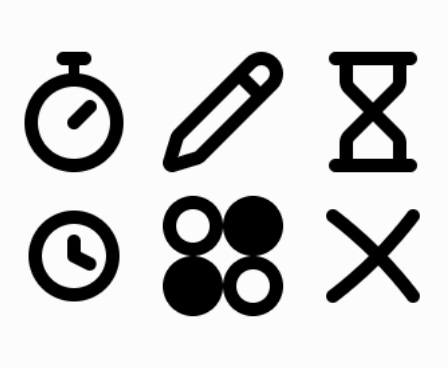
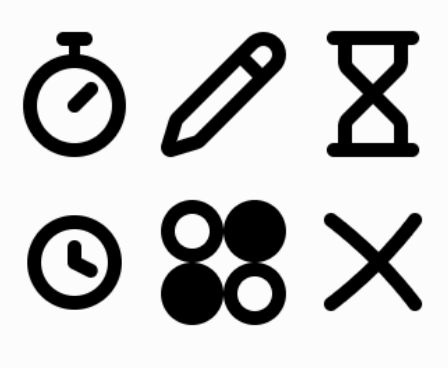
menu: a cell may be a fifth taller than it is wide, so six apps fill the panel
The owner on the six-app grid: "l'espacement doesn't feel too satisfactory".
Measured rather than guessed at: cells were 149 wide by 144 tall with 128px
icons, which put 10px of paper between an icon and the side bezel and 40px
between the grid and the top and bottom. The icons were grazing the sides
while floating in the middle, and that 10-against-40 is what the eye reads.

The cause was a cap: a cell's height was the smaller of (available height /
rows) and the narrowest row's own width, so it could never drift past square,
which threw away 80px of height it had every right to use. It may now be up
to 1.2x its width. Six apps go to 149x168 with 144px icons, margins of 10 at
the sides and top and the cancel floor's 22 at the bottom, and every target
grows from 1.9 to 2.2 child fingertips tall.

The obvious alternative was tried first and is geometrically impossible here,
which is worth writing down so nobody tries it again: equalising the margins
at 40 on all four sides needs 69px icons, because three columns across 448px
fix the cell width near 149 whatever the icons do. The panel is too narrow to
widen the side margins. Filling the height is the only direction that works.

Eleven and twelve apps are untouched: their cells are capped by height, not by
width, so the new allowance never binds.

Claude-Session: https://claude.ai/code/session_017hNMM6ajcQSgCyi2S7QXbH

diff --git a/devices/rp2350-amoled-1.8/tools/menu-layout.ts b/devices/rp2350-amoled-1.8/tools/menu-layout.ts
@@ -52,10 +52,11 @@ export function rowSpan(n: number, r: number): { first: number; cols: number } {
 export function menuCellH(n: number): number {
   const rows = menuRows(n);
   const byHeight = Math.floor(MENU_AVAIL_H / rows);
-  let byWidth = LAND_W;
+  let narrowest = LAND_W;
   for (let r = 0; r < rows; r++) {
-    byWidth = Math.min(byWidth, Math.floor(LAND_W / rowSpan(n, r).cols));
+    narrowest = Math.min(narrowest, Math.floor(LAND_W / rowSpan(n, r).cols));
   }
+  const byWidth = Math.floor((narrowest * 6) / 5); // menu.c: up to 1.2x width
   return Math.max(Math.floor(Math.min(byHeight, byWidth) / 8) * 8, MENU_CELL_FLOOR);
 }
 

diff --git a/devices/rp2350-amoled-1.8/firmware/apps/menu.c b/devices/rp2350-amoled-1.8/firmware/apps/menu.c
@@ -261,7 +261,11 @@ static int menu_min_row_width(int rows) {
 static int menu_cell_h(void) {
     int rows = menu_rows();
     int byHeight = MENU_AVAIL_H / rows;
-    int byWidth = menu_min_row_width(rows);
+    // EXPERIMENT: allow a cell up to 1.2x its own width instead of capping it
+    // at square. Capping at square is what leaves 40px of paper above and
+    // below the six-app grid while the icons sit 10px from the side bezels -
+    // the asymmetry the owner reads as unsatisfying.
+    int byWidth = (menu_min_row_width(rows) * 6) / 5;
     int h = byHeight < byWidth ? byHeight : byWidth;
     h = (h / 8) * 8;
     if (h < MENU_CELL_FLOOR) h = MENU_CELL_FLOOR;
